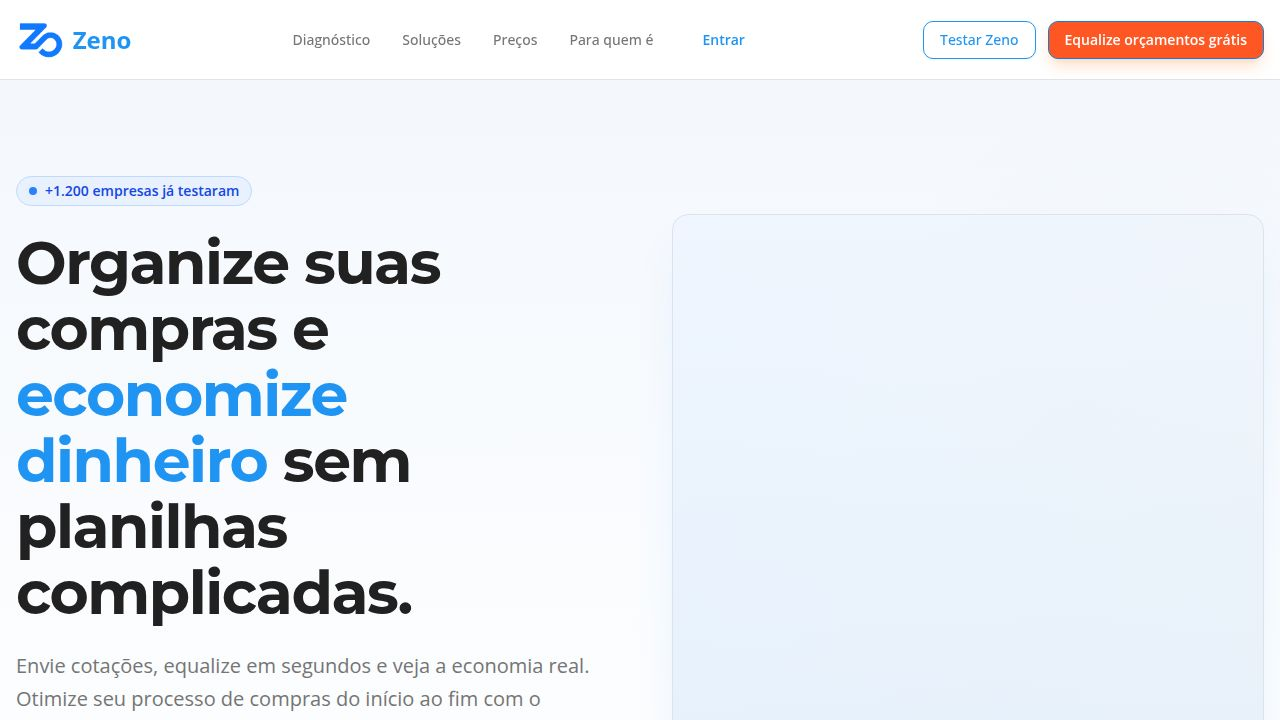
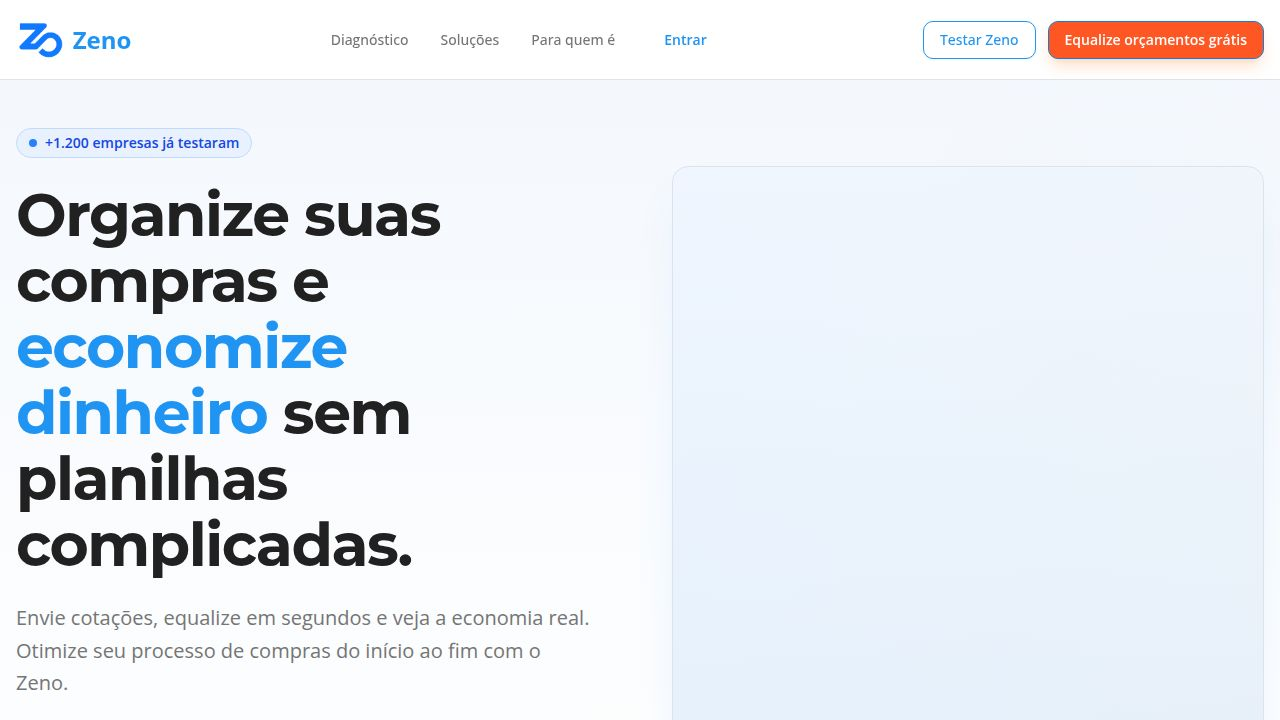
Hide pricing section and related navigation links
Comment out the pricing section and remove navigation links to 'Preços' from the header, mobile menu, and footer.

Replit-Commit-Author: Agent
Replit-Commit-Session-Id: f8ec6d97-deff-4b84-8624-b3ed86707626
Replit-Commit-Checkpoint-Type: full_checkpoint
Replit-Commit-Event-Id: 94faf8bd-d9b5-412a-b79e-dbc0854b63ee
Replit-Commit-Screenshot-Url: https://storage.googleapis.com/screenshot-production-us-central1/e63665dd-3bb0-44c7-823a-218149dfeb0e/f8ec6d97-deff-4b84-8624-b3ed86707626/gJnmDBp
Replit-Helium-Checkpoint-Created: true

Changed region(s): [[0.0, 0.2444, 0.4688, 1.0], [0.2188, 0.0306, 0.5938, 0.0611], [0.0, 0.1833, 0.1875, 0.2139]]

diff --git a/client/src/pages/LandingPage.tsx b/client/src/pages/LandingPage.tsx
@@ -64,7 +64,7 @@ export default function LandingPage() {
           <nav className="hidden md:flex items-center gap-8">
             <button onClick={() => scrollToSection("diagnostic")} className="text-sm font-medium text-muted-foreground hover:text-primary transition-colors">Diagnóstico</button>
             <button onClick={() => scrollToSection("solutions")} className="text-sm font-medium text-muted-foreground hover:text-primary transition-colors">Soluções</button>
-            <button onClick={() => scrollToSection("pricing")} className="text-sm font-medium text-muted-foreground hover:text-primary transition-colors">Preços</button>
+{/* <button onClick={() => scrollToSection("pricing")} className="text-sm font-medium text-muted-foreground hover:text-primary transition-colors">Preços</button> */}
             <button onClick={() => scrollToSection("faq")} className="text-sm font-medium text-muted-foreground hover:text-primary transition-colors">Para quem é</button>
             <Button 
               variant="ghost" 
@@ -99,7 +99,7 @@ export default function LandingPage() {
           <div className="md:hidden absolute top-full left-0 right-0 bg-white border-b border-border p-4 flex flex-col gap-4 shadow-xl animate-in slide-in-from-top-5">
             <button onClick={() => scrollToSection("diagnostic")} className="text-left py-2 font-medium text-muted-foreground">Diagnóstico</button>
             <button onClick={() => scrollToSection("solutions")} className="text-left py-2 font-medium text-muted-foreground">Soluções</button>
-            <button onClick={() => scrollToSection("pricing")} className="text-left py-2 font-medium text-muted-foreground">Preços</button>
+{/* <button onClick={() => scrollToSection("pricing")} className="text-left py-2 font-medium text-muted-foreground">Preços</button> */}
             <button onClick={() => scrollToSection("faq")} className="text-left py-2 font-medium text-muted-foreground">Para quem é</button>
             <div className="flex flex-col gap-3 mt-2">
               <Button 
@@ -417,7 +417,7 @@ export default function LandingPage() {
           </div>
         </section>
 
-        {/* 8. Pricing */}
+{/* 8. Pricing - HIDDEN FOR NOW
         <section id="pricing" className="py-20 bg-white">
           <div className="container mx-auto px-4">
              <div className="text-center mb-16">
@@ -428,7 +428,6 @@ export default function LandingPage() {
              </div>
 
              <div className="grid md:grid-cols-3 gap-8 max-w-6xl mx-auto">
-               {/* Basic */}
                <Card className="border border-border shadow-sm hover:shadow-md transition-all relative">
                  <CardContent className="p-8">
                    <h3 className="text-xl font-bold mb-2">Start</h3>
@@ -443,7 +442,6 @@ export default function LandingPage() {
                  </CardContent>
                </Card>
 
-               {/* Pro */}
                <Card className="border-2 border-primary shadow-xl scale-105 relative z-10 bg-white">
                  <div className="absolute top-0 left-1/2 -translate-x-1/2 -translate-y-1/2 bg-primary text-white px-4 py-1 rounded-full text-sm font-bold shadow-sm">
                    Mais Popular
@@ -462,7 +460,6 @@ export default function LandingPage() {
                  </CardContent>
                </Card>
 
-               {/* Enterprise */}
                <Card className="border border-border shadow-sm hover:shadow-md transition-all relative">
                  <CardContent className="p-8">
                    <h3 className="text-xl font-bold mb-2">Enterprise</h3>
@@ -480,6 +477,7 @@ export default function LandingPage() {
              </div>
           </div>
         </section>
+        */}
 
         {/* 9. Comparison */}
         <section className="py-20 bg-slate-50">
@@ -573,7 +571,7 @@ export default function LandingPage() {
             <h4 className="text-white font-bold mb-4">Produto</h4>
             <ul className="space-y-2 text-sm">
               <li><button onClick={() => scrollToSection("features")} className="hover:text-primary cursor-pointer">Funcionalidades</button></li>
-              <li><button onClick={() => scrollToSection("pricing")} className="hover:text-primary cursor-pointer">Preços</button></li>
+{/* <li><button onClick={() => scrollToSection("pricing")} className="hover:text-primary cursor-pointer">Preços</button></li> */}
               <li><button onClick={() => scrollToSection("cases")} className="hover:text-primary cursor-pointer">Cases</button></li>
             </ul>
           </div>